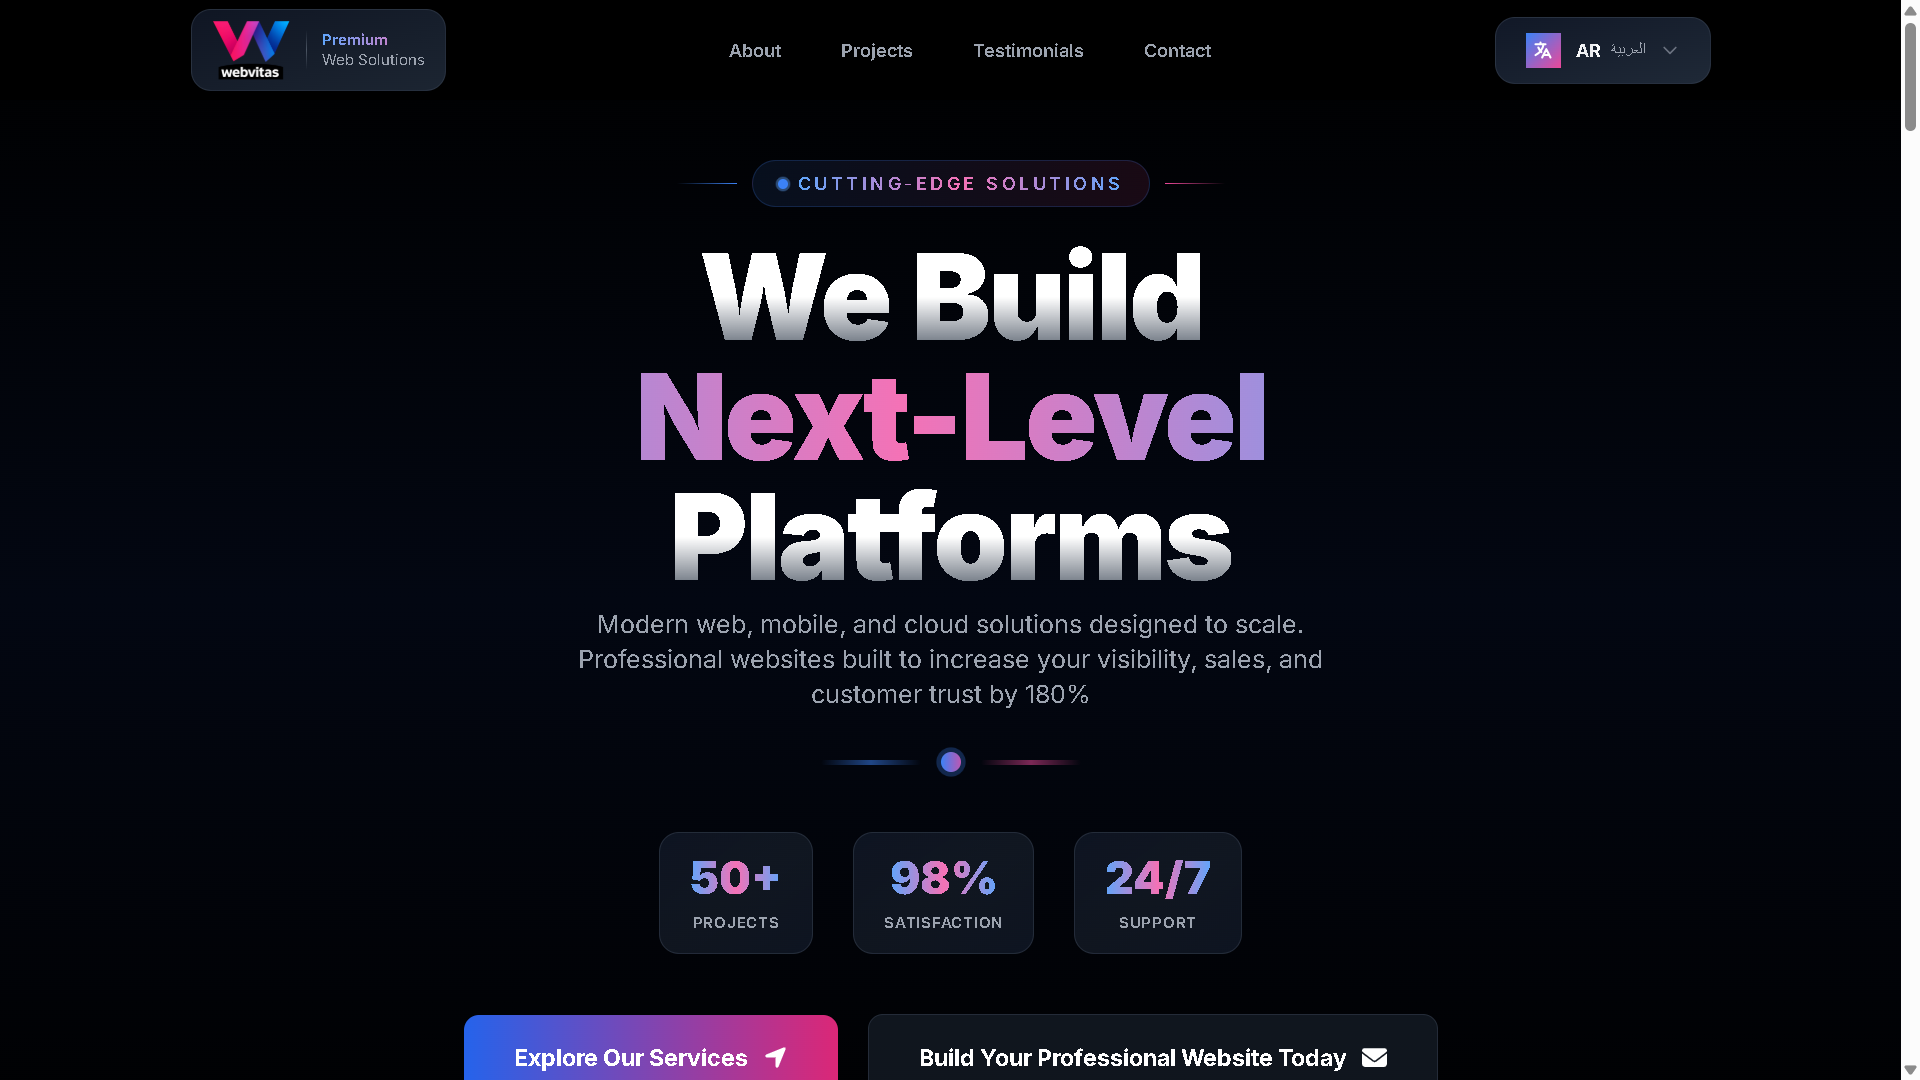
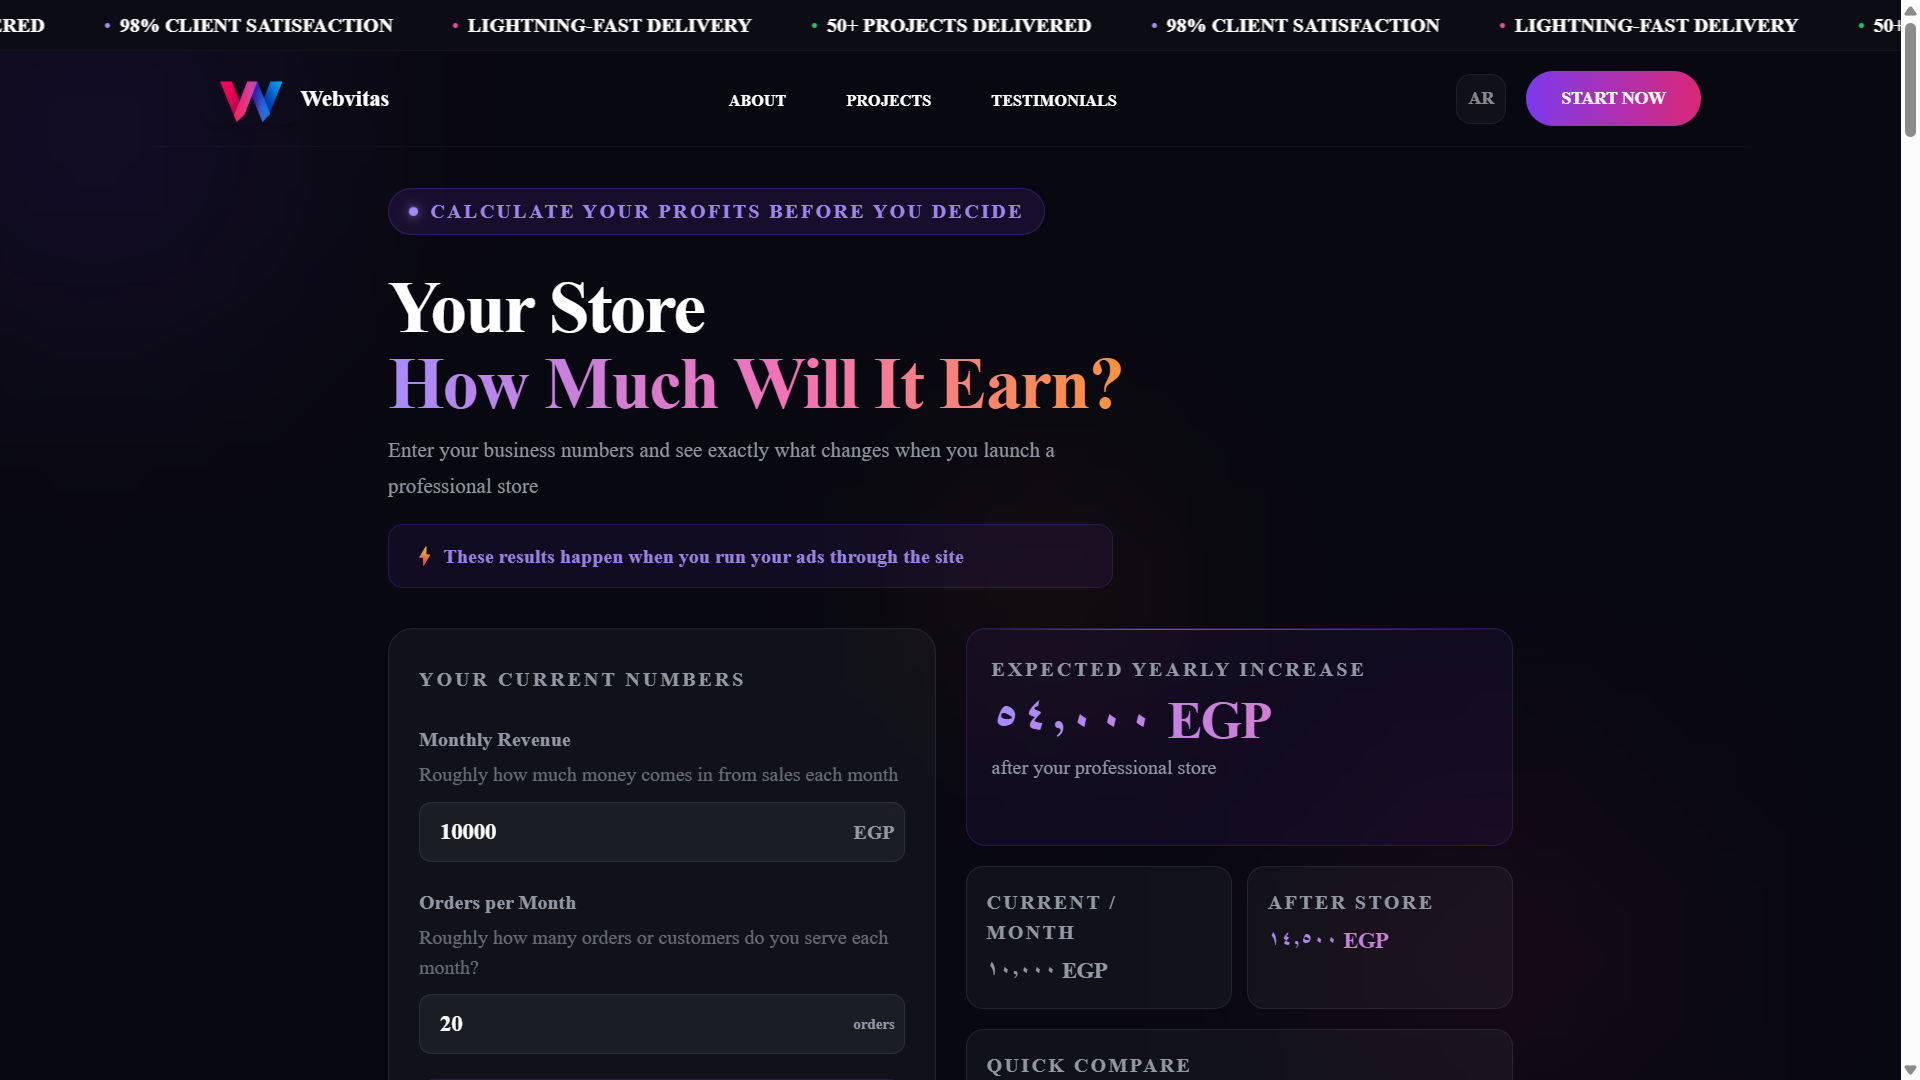
first commit

diff --git a/src/component/6-projects/myProjects.js b/src/component/6-projects/myProjects.js
@@ -5,12 +5,28 @@ export const myProjects = [
     imgPath: "/images/Screenshot 2026-02-20 161438.png",
     link: "https://www.webvitas.com/",
     desc: `A high-end digital agency platform built for selling premium web solutions. Optimized for conversions with a sleek, high-performance interface.`,
-    href: "https://github.com/mahmou9d/NextProfile",
+    href: "https://github.com/mahmou9d/copymisk",
     iconLists: [
       "/images/nextjs.svg",
       "/images/re.svg",
       "/images/tail.svg",
       "/images/ts.svg",
+    ],
+  },
+  {
+    projectTitle: "misk Perfume",
+    category: ["Simple"],
+    imgPath: "/images/Screenshot 2026-02-20 161043.png",
+    link: "https://miskstores.com",
+    desc: `A premium perfume store engineered for speed and SEO. Features a sensory UI and high-performance cart system, delivering a seamless luxury shopping experience.`,
+    href: "https://github.com/mahmou9d/Avura/",
+    iconLists: [
+      "/images/nextjs.svg",
+      // "/images/re.svg",
+      "/images/tail.svg",
+      "/images/ts.svg",
+      "/images/icons8-redux-48.png",
+      "/images/stream.svg",
     ],
   },
   {
@@ -29,22 +45,7 @@ export const myProjects = [
       "/images/stream.svg",
     ],
   },
-  {
-    projectTitle: "Avura",
-    category: ["Simple"],
-    imgPath: "/images/Screenshot 2026-02-20 161043.png",
-    link: "https://avura-orpin.vercel.app/",
-    desc: `A premium perfume store engineered for speed and SEO. Features a sensory UI and high-performance cart system, delivering a seamless luxury shopping experience.`,
-    href: "https://github.com/mahmou9d/Avura/",
-    iconLists: [
-      "/images/nextjs.svg",
-      // "/images/re.svg",
-      "/images/tail.svg",
-      "/images/ts.svg",
-      "/images/icons8-redux-48.png",
-      "/images/stream.svg",
-    ],
-  },
+
   {
     projectTitle: "XtraMarket",
     category: ["Simple"],
@@ -94,70 +95,70 @@ export const myProjects = [
     ],
   },
 
-  {
-    projectTitle: "M&MSTORE",
-    category: ["Complex"],
-    imgPath: "/images/Screenshot 2025-09-05 222413.webp",
-    link: "https://benevolent-beignet-116c19.netlify.app/",
-    desc: `E-commerce landing page built with React & SCSS — responsive, dynamic UI with cart and localStorage.
-`,
-    href: "https://github.com/mahmou9d/ecommerces",
-    iconLists: [
-      "/images/re.svg",
-      "/images/tail.svg",
-      "/images/ts.svg",
-      "/images/scss-svgrepo-com.svg",
-    ],
-  },
-  {
-    projectTitle: "Meeting Clone",
-    category: ["Simple"],
-    imgPath: "/images/Screenshot 2025-10-19 132556.png",
-    link: "https://meeting-clone.vercel.app/",
-    desc: `Video meeting app built with Next.js, Stream, and TypeScript — offering real-time calls, chat, scheduling, and screen sharing.`,
-    href: "https://github.com/mahmou9d/Meeting-Clone",
-    iconLists: [
-      "/images/nextjs.svg",
-      "/images/re.svg",
-      "/images/tail.svg",
-      "/images/ts.svg",
-      "https://getstream.io/_astro-assets/stream.svg",
-    ],
-  },
-  {
-    projectTitle: "SmartWatch",
-    category: ["Complex"],
-    imgPath: "/images/Screenshot 2025-09-05 232737.webp",
-    link: "https://poetic-truffle-8702f4.netlify.app/",
-    desc: `E-commerce landing page built with Next.js, TypeScript, Tailwind & Shadcn — responsive, dynamic UI with cart using Stripe integration.`,
-    href: "https://github.com/mahmou9d/super-store",
-    iconLists: [
-      "/images/nextjs.svg",
-      "/images/re.svg",
-      "/images/tail.svg",
-      "/images/ts.svg",
-      "/images/icons8-redux-48.png",
-      "/images/stream.svg",
-    ],
-  },
-  {
-    projectTitle: "Make",
-    category: ["Complex"],
-    imgPath: "/images/Screenshot 2025-09-05 222730.webp",
-    link: "https://guileless-donut-c16f52.netlify.app/",
-    desc: `Responsive e-commerce frontend built with React & Context API — featuring hero slider, category search, and cart with localStorage persistence.`,
-    href: "https://github.com/mahmou9d/ecoo",
-    iconLists: ["/images/re.svg", "/images/tail.svg"],
-  },
-  {
-    projectTitle: "Dashboard",
-    category: ["Complex"],
-    imgPath: "/images/Screenshot 2025-06-26 160415.webp",
-    link: "https://statuesque-conkies-a26f3f.netlify.app/",
-    desc: `Modern React dashboard with responsive layout, charts (Nivo/Recharts), key stats, revenue graph, and transactions panel.`,
-    href: "https://github.com/mahmou9d/dashboard",
-    iconLists: ["/images/re.svg", "/images/tail.svg"],
-  },
+  //   {
+  //     projectTitle: "M&MSTORE",
+  //     category: ["Complex"],
+  //     imgPath: "/images/Screenshot 2025-09-05 222413.webp",
+  //     link: "https://benevolent-beignet-116c19.netlify.app/",
+  //     desc: `E-commerce landing page built with React & SCSS — responsive, dynamic UI with cart and localStorage.
+  // `,
+  //     href: "https://github.com/mahmou9d/ecommerces",
+  //     iconLists: [
+  //       "/images/re.svg",
+  //       "/images/tail.svg",
+  //       "/images/ts.svg",
+  //       "/images/scss-svgrepo-com.svg",
+  //     ],
+  //   },
+  //   {
+  //     projectTitle: "Meeting Clone",
+  //     category: ["Simple"],
+  //     imgPath: "/images/Screenshot 2025-10-19 132556.png",
+  //     link: "https://meeting-clone.vercel.app/",
+  //     desc: `Video meeting app built with Next.js, Stream, and TypeScript — offering real-time calls, chat, scheduling, and screen sharing.`,
+  //     href: "https://github.com/mahmou9d/Meeting-Clone",
+  //     iconLists: [
+  //       "/images/nextjs.svg",
+  //       "/images/re.svg",
+  //       "/images/tail.svg",
+  //       "/images/ts.svg",
+  //       "https://getstream.io/_astro-assets/stream.svg",
+  //     ],
+  //   },
+  //   {
+  //     projectTitle: "SmartWatch",
+  //     category: ["Complex"],
+  //     imgPath: "/images/Screenshot 2025-09-05 232737.webp",
+  //     link: "https://poetic-truffle-8702f4.netlify.app/",
+  //     desc: `E-commerce landing page built with Next.js, TypeScript, Tailwind & Shadcn — responsive, dynamic UI with cart using Stripe integration.`,
+  //     href: "https://github.com/mahmou9d/super-store",
+  //     iconLists: [
+  //       "/images/nextjs.svg",
+  //       "/images/re.svg",
+  //       "/images/tail.svg",
+  //       "/images/ts.svg",
+  //       "/images/icons8-redux-48.png",
+  //       "/images/stream.svg",
+  //     ],
+  //   },
+  //   {
+  //     projectTitle: "Make",
+  //     category: ["Complex"],
+  //     imgPath: "/images/Screenshot 2025-09-05 222730.webp",
+  //     link: "https://guileless-donut-c16f52.netlify.app/",
+  //     desc: `Responsive e-commerce frontend built with React & Context API — featuring hero slider, category search, and cart with localStorage persistence.`,
+  //     href: "https://github.com/mahmou9d/ecoo",
+  //     iconLists: ["/images/re.svg", "/images/tail.svg"],
+  //   },
+  //   {
+  //     projectTitle: "Dashboard",
+  //     category: ["Complex"],
+  //     imgPath: "/images/Screenshot 2025-06-26 160415.webp",
+  //     link: "https://statuesque-conkies-a26f3f.netlify.app/",
+  //     desc: `Modern React dashboard with responsive layout, charts (Nivo/Recharts), key stats, revenue graph, and transactions panel.`,
+  //     href: "https://github.com/mahmou9d/dashboard",
+  //     iconLists: ["/images/re.svg", "/images/tail.svg"],
+  //   },
   // {
   //   projectTitle: "CRUD APP",
   //   category: ["Complex"],